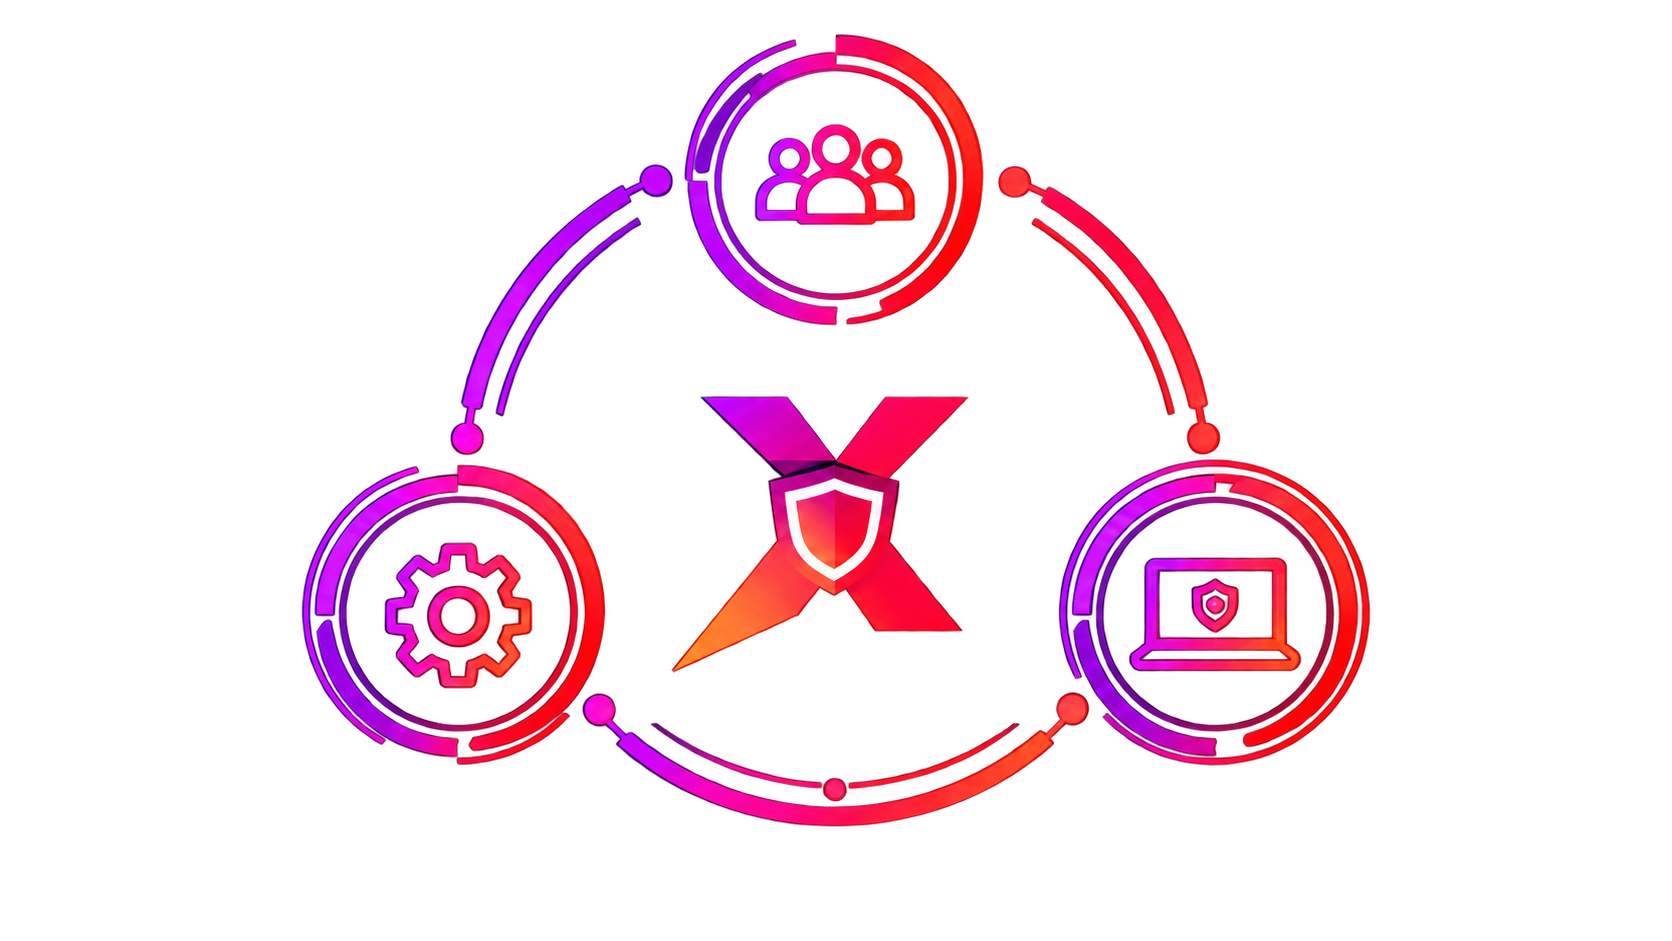
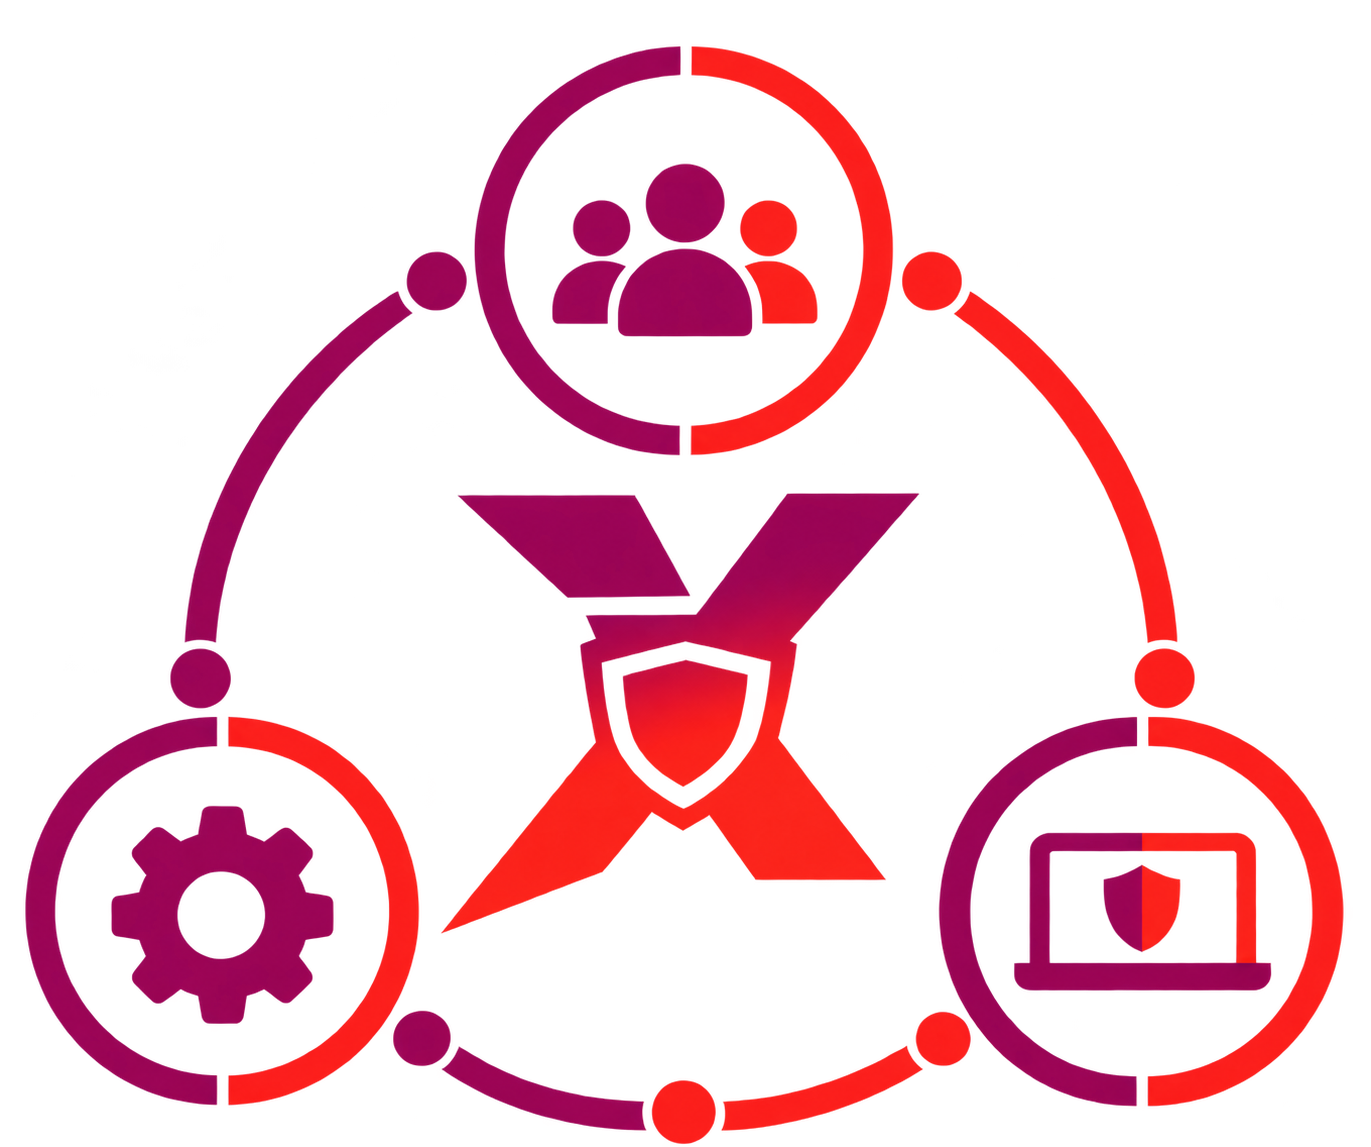
style: refine solution pages and update visual assets

Changed region(s): [[0.0, 0.0308, 0.9803, 1.0]]

diff --git a/src/components/service-page.tsx b/src/components/service-page.tsx
@@ -165,20 +165,22 @@ export function ServicePage({ content, cardVariant }: ServicePageProps) {
   return (
     <main className={`site-shell min-h-screen bg-background text-foreground ${hasResilienceCards ? "service-resilience-cards" : ""}`}>
       <SiteHeader />
-      <section className="relative min-h-[610px] overflow-hidden border-b border-slate-200/80 dark:border-white/5">
-        {props.imageLight && (
-          <Image src={publicAsset(props.imageLight)} alt={props.imageAlt} fill priority sizes="100vw" className="hero-visual object-cover object-[66%_center] opacity-90 dark:hidden" />
-        )}
-        <Image src={publicAsset(props.image)} alt={props.imageAlt} fill priority sizes="100vw" className={`hero-visual object-cover object-[66%_center] opacity-90 ${props.imageLight ? "hidden dark:block" : ""}`} />
+      <section className="relative min-h-[560px] overflow-hidden border-b border-slate-200/80 dark:border-white/5">
+        <div className="service-hero-artwork absolute inset-0">
+          {props.imageLight && (
+            <Image src={publicAsset(props.imageLight)} alt={props.imageAlt} fill priority sizes="100vw" className="object-contain object-top opacity-90 dark:hidden lg:object-right" />
+          )}
+          <Image src={publicAsset(props.image)} alt={props.imageAlt} fill priority sizes="100vw" className={`object-contain object-top opacity-90 lg:object-right ${props.imageLight ? "hidden dark:block" : ""}`} />
+        </div>
         <div className="hero-vignette absolute inset-0" />
         <div className="hero-ambient" />
         <div className="absolute inset-0 bg-gradient-to-t from-background via-transparent to-transparent opacity-95" />
-        <div className="page-grid relative z-10 flex min-h-[590px] items-center py-20">
-          <Reveal className="max-w-2xl">
+        <div className="page-grid relative z-10 flex min-h-[560px] items-center py-16 sm:min-h-[590px] sm:py-20">
+          <Reveal className="min-w-0 max-w-2xl">
             <p className="mb-5 text-sm font-bold uppercase tracking-[0.2em] text-rose-500 dark:text-rose-400">{props.eyebrow}</p>
-            <h1 className="text-5xl font-bold leading-[1.05] tracking-[-0.04em] text-slate-900 dark:text-white sm:text-6xl">{props.title}<br /><span className="text-gradient">{props.accent}</span></h1>
-            <p className="mt-6 max-w-xl text-xl leading-9 text-slate-600 dark:text-slate-300">{props.summary}</p>
-            <div className="mt-8 flex flex-col gap-3 sm:flex-row">
+            <h1 className="text-4xl font-bold leading-[1.1] tracking-[-0.04em] text-slate-900 dark:text-white sm:text-5xl xl:text-6xl">{props.title}<br /><span className="text-gradient">{props.accent}</span></h1>
+            <p className="mt-6 max-w-xl text-lg leading-8 text-slate-600 dark:text-slate-300 sm:text-xl sm:leading-9">{props.summary}</p>
+            <div className="mt-8 flex flex-col flex-wrap gap-3 sm:flex-row">
               <RequestDemoCta>{props.heroCtaButton}</RequestDemoCta>
               {props.heroSecondaryCtaButton && <a href="#exercise-flow" className="inline-flex h-12 items-center justify-center rounded-lg border border-slate-300 bg-white/70 px-6 text-sm font-semibold text-slate-800 transition hover:border-rose-500/50 hover:text-rose-600 dark:border-white/10 dark:bg-white/[0.04] dark:text-slate-200 dark:hover:border-rose-400/50 dark:hover:text-rose-300">{props.heroSecondaryCtaButton}</a>}
             </div>

diff --git a/src/app/globals.css b/src/app/globals.css
@@ -464,10 +464,7 @@ html:not(.dark) .brand-logo {
 .company-about-card {
   position: relative;
   overflow: hidden;
-  background:
-    radial-gradient(circle at 82% 36%, rgba(234, 64, 54, 0.08), transparent 18rem),
-    radial-gradient(circle at 12% 8%, rgba(142, 35, 94, 0.06), transparent 16rem),
-    linear-gradient(145deg, rgba(255, 255, 255, 0.99), rgba(248, 250, 252, 0.96));
+  background: linear-gradient(145deg, rgba(255, 255, 255, 0.99), rgba(248, 250, 252, 0.96));
   box-shadow: 0 18px 48px rgba(15, 23, 42, 0.08);
 }
 
@@ -495,22 +492,9 @@ html:not(.dark) .brand-logo {
   place-items: center;
 }
 
-.company-about-visual::before {
-  content: "";
-  position: absolute;
-  inset: 14% 10% 10%;
-  pointer-events: none;
-  background:
-    radial-gradient(circle at 54% 48%, rgba(234, 64, 54, 0.13), transparent 48%),
-    radial-gradient(circle at 44% 54%, rgba(142, 35, 94, 0.12), transparent 56%);
-  filter: blur(6px);
-}
-
 .company-about-visual img {
   position: relative;
   z-index: 1;
-  transform: scale(1.04);
-  filter: drop-shadow(0 18px 28px rgba(142, 35, 94, 0.12)) drop-shadow(0 10px 18px rgba(234, 64, 54, 0.08));
 }
 
 @media (min-width: 1024px) {
@@ -950,10 +934,7 @@ html:not(.dark) .brand-logo {
 }
 
 .dark .company-about-card {
-  background:
-    radial-gradient(circle at 82% 36%, rgba(234, 64, 54, 0.11), transparent 18rem),
-    radial-gradient(circle at 12% 8%, rgba(142, 35, 94, 0.12), transparent 16rem),
-    linear-gradient(145deg, rgba(14, 20, 33, 0.97), rgba(3, 6, 13, 0.96));
+  background: linear-gradient(145deg, rgba(14, 20, 33, 0.97), rgba(3, 6, 13, 0.96));
   box-shadow: inset 0 1px 0 rgba(255, 255, 255, 0.03), 0 22px 54px rgba(0, 0, 0, 0.24);
 }
 
@@ -962,16 +943,6 @@ html:not(.dark) .brand-logo {
     linear-gradient(rgba(142, 35, 94, 0.08) 1px, transparent 1px),
     linear-gradient(90deg, rgba(234, 64, 54, 0.06) 1px, transparent 1px);
   opacity: 0.48;
-}
-
-.dark .company-about-visual::before {
-  background:
-    radial-gradient(circle at 54% 48%, rgba(234, 64, 54, 0.15), transparent 48%),
-    radial-gradient(circle at 44% 54%, rgba(142, 35, 94, 0.16), transparent 56%);
-}
-
-.dark .company-about-visual img {
-  filter: drop-shadow(0 20px 30px rgba(142, 35, 94, 0.16)) drop-shadow(0 10px 20px rgba(234, 64, 54, 0.10));
 }
 
 .dark .motion-card:hover,
@@ -1197,6 +1168,8 @@ html:not(.dark) .hero-ambient {
   }
 
   .approach-feature-card {
+    display: flex;
+    flex-direction: column;
     min-height: 0;
   }
 
@@ -1205,11 +1178,12 @@ html:not(.dark) .hero-ambient {
   }
 
   .approach-card-visual {
+    order: -1;
     position: relative;
     inset: auto;
     width: 100%;
     height: 15rem;
-    margin-top: 1.25rem;
+    margin: 0 0 1.25rem;
     mask-image: linear-gradient(180deg, transparent 0%, black 12%, black 100%);
     -webkit-mask-image: linear-gradient(180deg, transparent 0%, black 12%, black 100%);
   }

diff --git a/src/app/solutions/tabletop/page.tsx b/src/app/solutions/tabletop/page.tsx
@@ -1,5 +1,8 @@
 import type { Metadata } from "next";
 import { ServicePage } from "@/components/service-page";
+import { solutionServiceMeta } from "@/lib/solution-services";
+
+const tabletop = solutionServiceMeta[1];
 
 export const metadata: Metadata = { title: "Tabletop Exercise", description: "Simulasi krisis siber untuk menguji keputusan eksekutif, koordinasi, dan kesiapan organisasi." };
 
@@ -10,8 +13,8 @@ export default function TabletopPage() {
       title: "Uji Kesiapan Anda Sebelum",
       accent: "Insiden Siber Sebenarnya Terjadi",
       summary: "Tabletop Exercise adalah simulasi berbasis skenario yang membantu organisasi menguji kesiapan, koordinasi, dan pengambilan keputusan dalam menghadapi insiden keamanan siber.",
-      image: "/images/tabletop-hero.png",
-      imageLight: "/images/Solusi_TTX_Light.png",
+      image: tabletop.image,
+      imageLight: tabletop.imageLight,
       imageAlt: "Simulasi krisis siber untuk eksekutif",
       heroCtaButton: "Ajukan Tabletop Exercise",
       heroHighlights: [
@@ -140,8 +143,8 @@ export default function TabletopPage() {
       title: "Test Your Readiness Before a",
       accent: "Real Cyber Incident Happens",
       summary: "A tabletop exercise is a scenario-based simulation that helps organizations test their preparedness, coordination, and decision-making in the face of a cybersecurity incident.",
-      image: "/images/tabletop-hero.png",
-      imageLight: "/images/Solusi_TTX_Light.png",
+      image: tabletop.image,
+      imageLight: tabletop.imageLight,
       imageAlt: "Cyber crisis simulation for executives",
       heroCtaButton: "Request a Tabletop Exercise",
       heroSecondaryCtaButton: "Explore Our Scenarios",

diff --git a/src/app/solutions/cyber-drill/page.tsx b/src/app/solutions/cyber-drill/page.tsx
@@ -1,5 +1,8 @@
 import type { Metadata } from "next";
 import { ServicePage } from "@/components/service-page";
+import { solutionServiceMeta } from "@/lib/solution-services";
+
+const cyberDrill = solutionServiceMeta[0];
 
 export const metadata: Metadata = { title: "Cyber Drill Exercise", description: "Uji kesiapan teknis organisasi melalui simulasi serangan siber yang realistis dan terukur." };
 
@@ -10,8 +13,8 @@ export default function CyberDrillPage() {
       title: "Simulasi. Respon.",
       accent: "Peningkatan.",
       summary: "Uji kemampuan organisasi dalam menghadapi serangan siber melalui simulasi serangan yang realistis dan terukur.",
-      image: "/images/cyber-drill-hero.png",
-      imageLight: "/images/Solusi_Cyberdrill_Light.png",
+      image: cyberDrill.image,
+      imageLight: cyberDrill.imageLight,
       imageAlt: "Simulasi serangan siber CyberXatria",
       heroCtaButton: "Ajukan Demo",
       aboutEyebrow: "Tentang layanan",
@@ -98,8 +101,8 @@ export default function CyberDrillPage() {
       title: "Simulate. Respond.",
       accent: "Improve.",
       summary: "Test your organizations ability to respond to cyberattacks through realistic and measurable attack simulations.",
-      image: "/images/cyber-drill-hero.png",
-      imageLight: "/images/Solusi_Cyberdrill_Light.png",
+      image: cyberDrill.image,
+      imageLight: cyberDrill.imageLight,
       imageAlt: "CyberXatria cyberattack simulation",
       heroCtaButton: "Request Demo",
       aboutEyebrow: "About the service",
